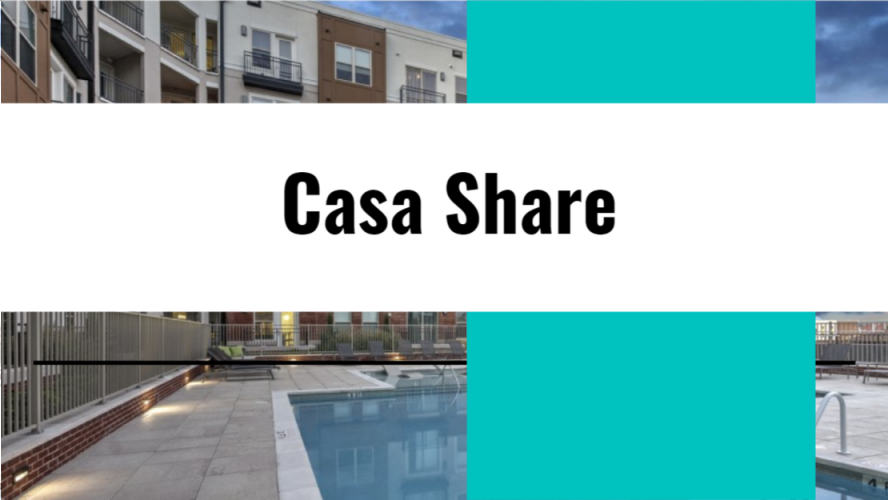
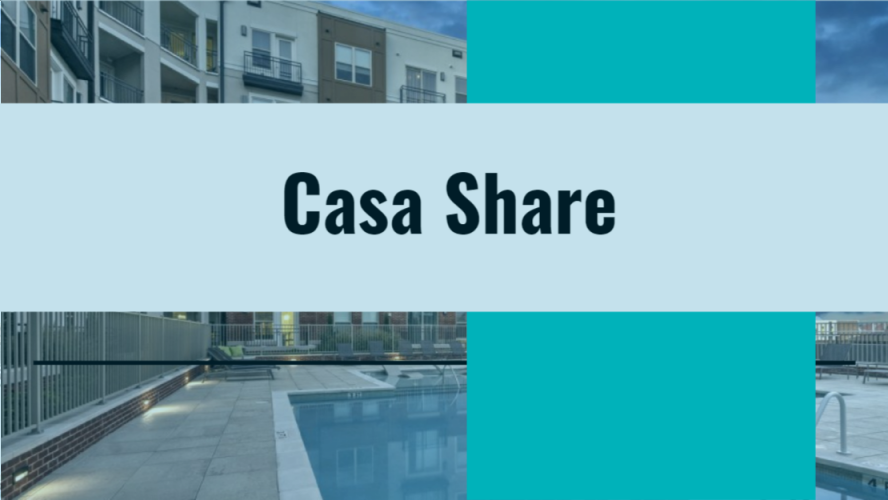
miniheader changes

diff --git a/index.html b/index.html
@@ -133,7 +133,7 @@
           <div class="col-lg-6">
             <a href="Individual Pages/404Page.html">
             <!-- <a href="Individual Pages/ATXEATS.html"> -->
-              <img class="img-fluid" src="img/demo-image-01.jpg" alt="">
+              <img class="img-fluid" src="Individual Pages/img/ATXEats/header.jpg" alt="">
             </a>            
           </div>
           <div class="col-lg-6">
@@ -181,7 +181,7 @@
             <div class="col-lg-6">
               <a href="Individual Pages/404Page.html">
               <!-- <a href="Individual Pages/NavyRedesign.html"> -->
-                <img class="img-fluid" src="img/demo-image-01.jpg" alt="">
+                <img class="img-fluid" src="Individual Pages/img/Navy/miniheader.png" alt="">
               </a>
             </div>
           <div class="col-lg-6">
